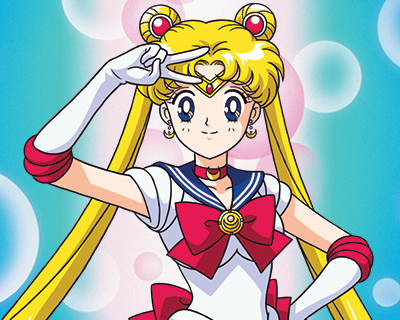
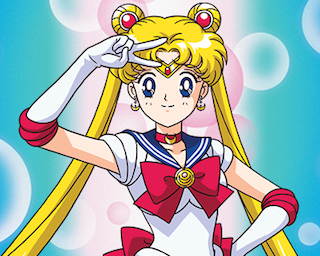
Added and resized images to sample site. Updated slides to include goals.

diff --git a/sample-site/final/index.html b/sample-site/final/index.html
@@ -36,6 +36,7 @@
 			</nav>
 			<main>
 				<h2>What is Sailor Moon?</h2>
+				<img class="alignright" src="img/sailor-moon-manga.jpg" alt="Image of Sailor Moon from the original comic books." title="The comic book's main character, Sailor Moon." />
 				<p>Sailor Moon is the main character from an early-90's Japanese comic book (manga) series that was later adapted into an
 					animated TV series (anime) that became famous all over the world. Movies, games, merchandise, and a recent anime reboot
 					featuring the cast and their antics were also developed.
@@ -46,6 +47,7 @@
 					villans who would ruin Earth.</p>
 
 				<h2>Is it popular?</h2>
+				<img class="alignleft" src="img/sailor-moon-anime.jpg" alt="Image from the animated TV show Sailor Moon" title="The TV show's main character, Sailor Moon." />
 				<p>In a word: yes. The first chapters of the Sailor Moon manga were published in 1991, and since then has sold over 35 million
 					copies worldwide. It is one of the most famous "shojo" manga (manga written specifically for teenage girls) of all time.
 					American fans know it best as an animated series (anime) that was broadcast on cable channel Cartoon Network during

diff --git a/class1.html b/class1.html
@@ -244,9 +244,21 @@
       </section>
 
       <section>
-        <h3>Goals</h3>
+        <h3>Course Goals</h3>
         <p>By the end of the class, you will have built a simple site using HTML and CSS on a topic of your choice.</p>
         <img src="img/sample-page.png" alt="Screenshot of a sample page" />
+      </section>
+
+      <section>
+        <h3>Caitlin's Goals~~~</h3>
+        <p>Mine will end up looking something like this. ^_^</p>
+        <img src="img/oh-wow-sailor-moon.png" alt="Screenshot of Caitlin's sample page, which is very colorful" />
+      </section>
+
+      <section>
+        <h3><strong>Today's</strong> Goals</h3>
+        <p>By the end of today's class, we will have gained the skills to produce something like this:</p>
+        <img src="img/class1-goals.png" />
       </section>
 
       <section>
